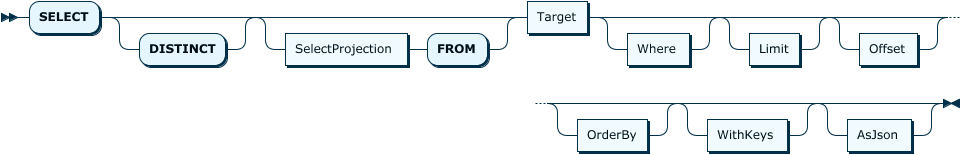
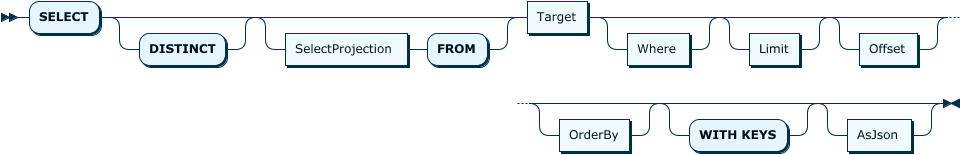
Update search and math

diff --git a/res/doc.html b/res/doc.html
@@ -132,7 +132,7 @@
     }
     #divs div.ebnf, div.ebnf
     {
-      display: none;
+      display: block;
       padding-left: 16px;
       padding-top: 2px; 
       padding-bottom: 2px; 
@@ -185,11 +185,11 @@
             </div>
          </p>
       
-      <p>no references</p><br><p style="font-size: 14px; font-weight:bold"><a name="Select">Select:</a></p><img border="0" src="diagram/Select.png" height="155" width="961" usemap="#Select.map"><map name="Select.map"><area shape="rect" coords="285,33,407,65" href="#SelectProjection" title="SelectProjection"><area shape="rect" coords="527,1,587,33" href="#Target" title="Target"><area shape="rect" coords="627,33,689,65" href="#Where" title="Where"><area shape="rect" coords="749,33,799,65" href="#Limit" title="Limit"><area shape="rect" coords="859,33,917,65" href="#Offset" title="Offset"><area shape="rect" coords="577,119,647,151" href="#OrderBy" title="OrderBy"><area shape="rect" coords="707,119,787,151" href="#WithKeys" title="WithKeys"><area shape="rect" coords="847,119,911,151" href="#AsJson" title="AsJson"></map><p>
+      <p>no references</p><br><p style="font-size: 14px; font-weight:bold"><a name="Select">Select:</a></p><img border="0" src="diagram/Select.png" height="155" width="961" usemap="#Select.map"><map name="Select.map"><area shape="rect" coords="285,33,407,65" href="#SelectProjection" title="SelectProjection"><area shape="rect" coords="527,1,587,33" href="#Target" title="Target"><area shape="rect" coords="627,33,689,65" href="#Where" title="Where"><area shape="rect" coords="749,33,799,65" href="#Limit" title="Limit"><area shape="rect" coords="859,33,917,65" href="#Offset" title="Offset"><area shape="rect" coords="559,119,629,151" href="#OrderBy" title="OrderBy"><area shape="rect" coords="847,119,911,151" href="#AsJson" title="AsJson"></map><p>
          
          <div class="ebnf">
             
-            <pre><a href="#Select" title="Select" shape="rect">Select</a>   ::= 'SELECT' 'DISTINCT'? ( <a href="#SelectProjection" title="SelectProjection" shape="rect">SelectProjection</a> 'FROM' )? <a href="#Target" title="Target" shape="rect">Target</a> <a href="#Where" title="Where" shape="rect">Where</a>? <a href="#Limit" title="Limit" shape="rect">Limit</a>? <a href="#Offset" title="Offset" shape="rect">Offset</a>? <a href="#OrderBy" title="OrderBy" shape="rect">OrderBy</a>? <a href="#WithKeys" title="WithKeys" shape="rect">WithKeys</a>? <a href="#AsJson" title="AsJson" shape="rect">AsJson</a>?</pre>
+            <pre><a href="#Select" title="Select" shape="rect">Select</a>   ::= 'SELECT' 'DISTINCT'? ( <a href="#SelectProjection" title="SelectProjection" shape="rect">SelectProjection</a> 'FROM' )? <a href="#Target" title="Target" shape="rect">Target</a> <a href="#Where" title="Where" shape="rect">Where</a>? <a href="#Limit" title="Limit" shape="rect">Limit</a>? <a href="#Offset" title="Offset" shape="rect">Offset</a>? <a href="#OrderBy" title="OrderBy" shape="rect">OrderBy</a>? 'WITH KEYS'? <a href="#AsJson" title="AsJson" shape="rect">AsJson</a>?</pre>
             </div>
          </p>
       
@@ -203,11 +203,11 @@
             
             <li><a href="#Value" title="Value">Value</a></li>
             </ul>
-         </p><br><p style="font-size: 14px; font-weight:bold"><a name="Describe">Describe:</a></p><img border="0" src="diagram/Describe.png" height="155" width="995" usemap="#Describe.map"><map name="Describe.map"><area shape="rect" coords="303,33,441,65" href="#DescribeProjection" title="DescribeProjection"><area shape="rect" coords="561,1,621,33" href="#Target" title="Target"><area shape="rect" coords="661,33,723,65" href="#Where" title="Where"><area shape="rect" coords="783,33,833,65" href="#Limit" title="Limit"><area shape="rect" coords="893,33,951,65" href="#Offset" title="Offset"><area shape="rect" coords="617,119,687,151" href="#OrderBy" title="OrderBy"><area shape="rect" coords="747,119,827,151" href="#WithKeys" title="WithKeys"><area shape="rect" coords="887,119,945,151" href="#Pretty" title="Pretty"></map><p>
+         </p><br><p style="font-size: 14px; font-weight:bold"><a name="Describe">Describe:</a></p><img border="0" src="diagram/Describe.png" height="155" width="995" usemap="#Describe.map"><map name="Describe.map"><area shape="rect" coords="303,33,441,65" href="#DescribeProjection" title="DescribeProjection"><area shape="rect" coords="561,1,621,33" href="#Target" title="Target"><area shape="rect" coords="661,33,723,65" href="#Where" title="Where"><area shape="rect" coords="783,33,833,65" href="#Limit" title="Limit"><area shape="rect" coords="893,33,951,65" href="#Offset" title="Offset"><area shape="rect" coords="585,119,655,151" href="#OrderBy" title="OrderBy"></map><p>
          
          <div class="ebnf">
             
-            <pre><a href="#Describe" title="Describe" shape="rect">Describe</a> ::= 'DESCRIBE' 'DISTINCT'? ( <a href="#DescribeProjection" title="DescribeProjection" shape="rect">DescribeProjection</a> 'FROM' )? <a href="#Target" title="Target" shape="rect">Target</a> <a href="#Where" title="Where" shape="rect">Where</a>? <a href="#Limit" title="Limit" shape="rect">Limit</a>? <a href="#Offset" title="Offset" shape="rect">Offset</a>? <a href="#OrderBy" title="OrderBy" shape="rect">OrderBy</a>? <a href="#WithKeys" title="WithKeys" shape="rect">WithKeys</a>? <a href="#Pretty" title="Pretty" shape="rect">Pretty</a>?</pre>
+            <pre><a href="#Describe" title="Describe" shape="rect">Describe</a> ::= 'DESCRIBE' 'DISTINCT'? ( <a href="#DescribeProjection" title="DescribeProjection" shape="rect">DescribeProjection</a> 'FROM' )? <a href="#Target" title="Target" shape="rect">Target</a> <a href="#Where" title="Where" shape="rect">Where</a>? <a href="#Limit" title="Limit" shape="rect">Limit</a>? <a href="#Offset" title="Offset" shape="rect">Offset</a>? <a href="#OrderBy" title="OrderBy" shape="rect">OrderBy</a>? 'WITH KEYS'? 'PRETTY'?</pre>
             </div>
          </p>
       
@@ -217,11 +217,11 @@
             
             <li><a href="#Statement" title="Statement">Statement</a></li>
             </ul>
-         </p><br><p style="font-size: 14px; font-weight:bold"><a name="Search">Search:</a></p><img border="0" src="diagram/Search.png" height="113" width="633" usemap="#Search.map"><map name="Search.map"><area shape="rect" coords="123,1,183,33" href="#Target" title="Target"><area shape="rect" coords="395,1,451,33" href="#Value" title="Value"><area shape="rect" coords="491,33,583,65" href="#WithValues" title="WithValues"></map><p>
+         </p><br><p style="font-size: 14px; font-weight:bold"><a name="Search">Search:</a></p><img border="0" src="diagram/Search.png" height="113" width="753" usemap="#Search.map"><map name="Search.map"><area shape="rect" coords="123,1,183,33" href="#Target" title="Target"><area shape="rect" coords="395,1,471,33" href="#Operator" title="Operator"><area shape="rect" coords="491,1,547,33" href="#Value" title="Value"></map><p>
          
          <div class="ebnf">
             
-            <pre><a href="#Search" title="Search" shape="rect">Search</a>   ::= 'SEARCH' <a href="#Target" title="Target" shape="rect">Target</a> 'FOR' ( 'KEY' | 'VALUE' )? <a href="#Value" title="Value" shape="rect">Value</a> <a href="#WithValues" title="WithValues" shape="rect">WithValues</a>?</pre>
+            <pre><a href="#Search" title="Search" shape="rect">Search</a>   ::= 'SEARCH' <a href="#Target" title="Target" shape="rect">Target</a> 'FOR' ( 'KEY' | 'VALUE' )? <a href="#Operator" title="Operator" shape="rect">Operator</a> <a href="#Value" title="Value" shape="rect">Value</a> 'WITH VALUES'?</pre>
             </div>
          </p>
       
@@ -295,11 +295,11 @@
             
             <li><a href="#Select" title="Select">Select</a></li>
             </ul>
-         </p><br><p style="font-size: 14px; font-weight:bold"><a name="AsJson">AsJson:</a></p><img border="0" src="diagram/AsJson.png" height="69" width="255" usemap="#AsJson.map"><map name="AsJson.map"><area shape="rect" coords="147,33,205,65" href="#Pretty" title="Pretty"></map><p>
+         </p><br><p style="font-size: 14px; font-weight:bold"><a name="AsJson">AsJson:</a></p><img border="0" src="diagram/AsJson.png" height="69" width="269"><p>
          
          <div class="ebnf">
             
-            <pre><a href="#AsJson" title="AsJson" shape="rect">AsJson</a>   ::= 'AS JSON' <a href="#Pretty" title="Pretty" shape="rect">Pretty</a>?</pre>
+            <pre><a href="#AsJson" title="AsJson" shape="rect">AsJson</a>   ::= 'AS JSON' 'PRETTY'?</pre>
             </div>
          </p>
       
@@ -308,53 +308,6 @@
          <ul>
             
             <li><a href="#Select" title="Select">Select</a></li>
-            </ul>
-         </p><br><p style="font-size: 14px; font-weight:bold"><a name="WithKeys">WithKeys:</a></p><img border="0" src="diagram/WithKeys.png" height="37" width="157"><p>
-         
-         <div class="ebnf">
-            
-            <pre><a href="#WithKeys" title="WithKeys" shape="rect">WithKeys</a> ::= 'WITH KEYS'</pre>
-            </div>
-         </p>
-      
-      <p>referenced by:
-         
-         <ul>
-            
-            <li><a href="#Describe" title="Describe">Describe</a></li>
-            
-            <li><a href="#Select" title="Select">Select</a></li>
-            </ul>
-         </p><br><p style="font-size: 14px; font-weight:bold"><a name="WithValues">WithValues:</a></p><img border="0" src="diagram/WithValues.png" height="37" width="175"><p>
-         
-         <div class="ebnf">
-            
-            <pre><a href="#WithValues" title="WithValues" shape="rect">WithValues</a>
-         ::= 'WITH VALUES'</pre>
-            </div>
-         </p>
-      
-      <p>referenced by:
-         
-         <ul>
-            
-            <li><a href="#Search" title="Search">Search</a></li>
-            </ul>
-         </p><br><p style="font-size: 14px; font-weight:bold"><a name="Pretty">Pretty:</a></p><img border="0" src="diagram/Pretty.png" height="37" width="131"><p>
-         
-         <div class="ebnf">
-            
-            <pre><a href="#Pretty" title="Pretty" shape="rect">Pretty</a>   ::= 'PRETTY'</pre>
-            </div>
-         </p>
-      
-      <p>referenced by:
-         
-         <ul>
-            
-            <li><a href="#AsJson" title="AsJson">AsJson</a></li>
-            
-            <li><a href="#Describe" title="Describe">Describe</a></li>
             </ul>
          </p><br><p style="font-size: 14px; font-weight:bold"><a name="Target">Target:</a></p><img border="0" src="diagram/Target.png" height="81" width="249" usemap="#Target.map"><map name="Target.map"><area shape="rect" coords="49,1,147,33" href="#FullJsonPath" title="FullJsonPath"><area shape="rect" coords="95,45,153,77" href="#Select" title="Select"></map><p>
          
@@ -375,7 +328,7 @@
             
             <li><a href="#Select" title="Select">Select</a></li>
             </ul>
-         </p><br><p style="font-size: 14px; font-weight:bold"><a name="Operator">Operator:</a></p><img border="0" src="diagram/Operator.png" height="257" width="139"><p>
+         </p><br><p style="font-size: 14px; font-weight:bold"><a name="Operator">Operator:</a></p><img border="0" src="diagram/Operator.png" height="345" width="139"><p>
          
          <div class="ebnf">
             
@@ -384,13 +337,17 @@
            | '#'
            | '!#'
            | '&lt;'
-           | '&gt;'</pre>
+           | '&gt;'
+           | '&lt;='
+           | '&gt;='</pre>
             </div>
          </p>
       
       <p>referenced by:
          
          <ul>
+            
+            <li><a href="#Search" title="Search">Search</a></li>
             
             <li><a href="#Where" title="Where">Where</a></li>
             </ul>
@@ -430,15 +387,15 @@
             
             <li><a href="#Describe" title="Describe">Describe</a></li>
             </ul>
-         </p><br><p style="font-size: 14px; font-weight:bold"><a name="SelectProjection">SelectProjection:</a></p><img border="0" src="diagram/SelectProjection.png" height="213" width="303" usemap="#SelectProjection.map"><map name="SelectProjection.map"><area shape="rect" coords="49,1,121,33" href="#JsonKey" title="JsonKey"><area shape="rect" coords="115,89,187,121" href="#JsonKey" title="JsonKey"><area shape="rect" coords="49,177,127,209" href="#MathExpr" title="MathExpr"></map><p>
+         </p><br><p style="font-size: 14px; font-weight:bold"><a name="SelectProjection">SelectProjection:</a></p><img border="0" src="diagram/SelectProjection.png" height="213" width="403" usemap="#SelectProjection.map"><map name="SelectProjection.map"><area shape="rect" coords="49,1,121,33" href="#JsonKey" title="JsonKey"><area shape="rect" coords="115,89,187,121" href="#JsonKey" title="JsonKey"><area shape="rect" coords="49,177,127,209" href="#MathExpr" title="MathExpr"><area shape="rect" coords="193,177,307,209" href="#MathProjection" title="MathProjection"></map><p>
          
          <div class="ebnf">
             
             <pre><a href="#SelectProjection" title="SelectProjection" shape="rect">SelectProjection</a>
          ::= <a href="#JsonKey" title="JsonKey" shape="rect">JsonKey</a>
-           | '(' <a href="#JsonKey" title="JsonKey" shape="rect">JsonKey</a> ( ',' <a href="#JsonKey" title="JsonKey" shape="rect">JsonKey</a> )* ')'
+           | '(' <a href="#JsonKey" title="JsonKey" shape="rect">JsonKey</a> ( ',' <a href="#JsonKey" title="JsonKey" shape="rect">JsonKey</a> )* ') '
            | 'ELEMENT'
-           | <a href="#MathExpr" title="MathExpr" shape="rect">MathExpr</a></pre>
+           | <a href="#MathExpr" title="MathExpr" shape="rect">MathExpr</a> '(' <a href="#MathProjection" title="MathProjection" shape="rect">MathProjection</a> ')'</pre>
             </div>
          </p>
       
@@ -448,14 +405,14 @@
             
             <li><a href="#Select" title="Select">Select</a></li>
             </ul>
-         </p><br><p style="font-size: 14px; font-weight:bold"><a name="MathExpr">MathExpr:</a></p><img border="0" src="diagram/MathExpr.png" height="169" width="353" usemap="#MathExpr.map"><map name="MathExpr.map"><area shape="rect" coords="125,1,239,33" href="#MathProjection" title="MathProjection"><area shape="rect" coords="123,45,237,77" href="#MathProjection" title="MathProjection"><area shape="rect" coords="125,89,239,121" href="#MathProjection" title="MathProjection"><area shape="rect" coords="143,133,257,165" href="#MathProjection" title="MathProjection"></map><p>
+         </p><br><p style="font-size: 14px; font-weight:bold"><a name="MathExpr">MathExpr:</a></p><img border="0" src="diagram/MathExpr.png" height="169" width="167"><p>
          
          <div class="ebnf">
             
-            <pre><a href="#MathExpr" title="MathExpr" shape="rect">MathExpr</a> ::= 'SUM(' <a href="#MathProjection" title="MathProjection" shape="rect">MathProjection</a> ')'
-           | 'MIN(' <a href="#MathProjection" title="MathProjection" shape="rect">MathProjection</a> ')'
-           | 'MAX(' <a href="#MathProjection" title="MathProjection" shape="rect">MathProjection</a> ')'
-           | 'COUNT(' <a href="#MathProjection" title="MathProjection" shape="rect">MathProjection</a> ')'</pre>
+            <pre><a href="#MathExpr" title="MathExpr" shape="rect">MathExpr</a> ::= 'SUM'
+           | 'MIN'
+           | 'MAX'
+           | 'COUNT'</pre>
             </div>
          </p>
       
@@ -479,7 +436,7 @@
          
          <ul>
             
-            <li><a href="#MathExpr" title="MathExpr">MathExpr</a></li>
+            <li><a href="#SelectProjection" title="SelectProjection">SelectProjection</a></li>
             </ul>
          </p><br><p style="font-size: 14px; font-weight:bold"><a name="FullJsonPath">FullJsonPath:</a></p><img border="0" src="diagram/FullJsonPath.png" height="81" width="311" usemap="#FullJsonPath.map"><map name="FullJsonPath.map"><area shape="rect" coords="139,1,215,33" href="#JsonPath" title="JsonPath"><area shape="rect" coords="137,45,213,77" href="#JsonPath" title="JsonPath"></map><p>
          
